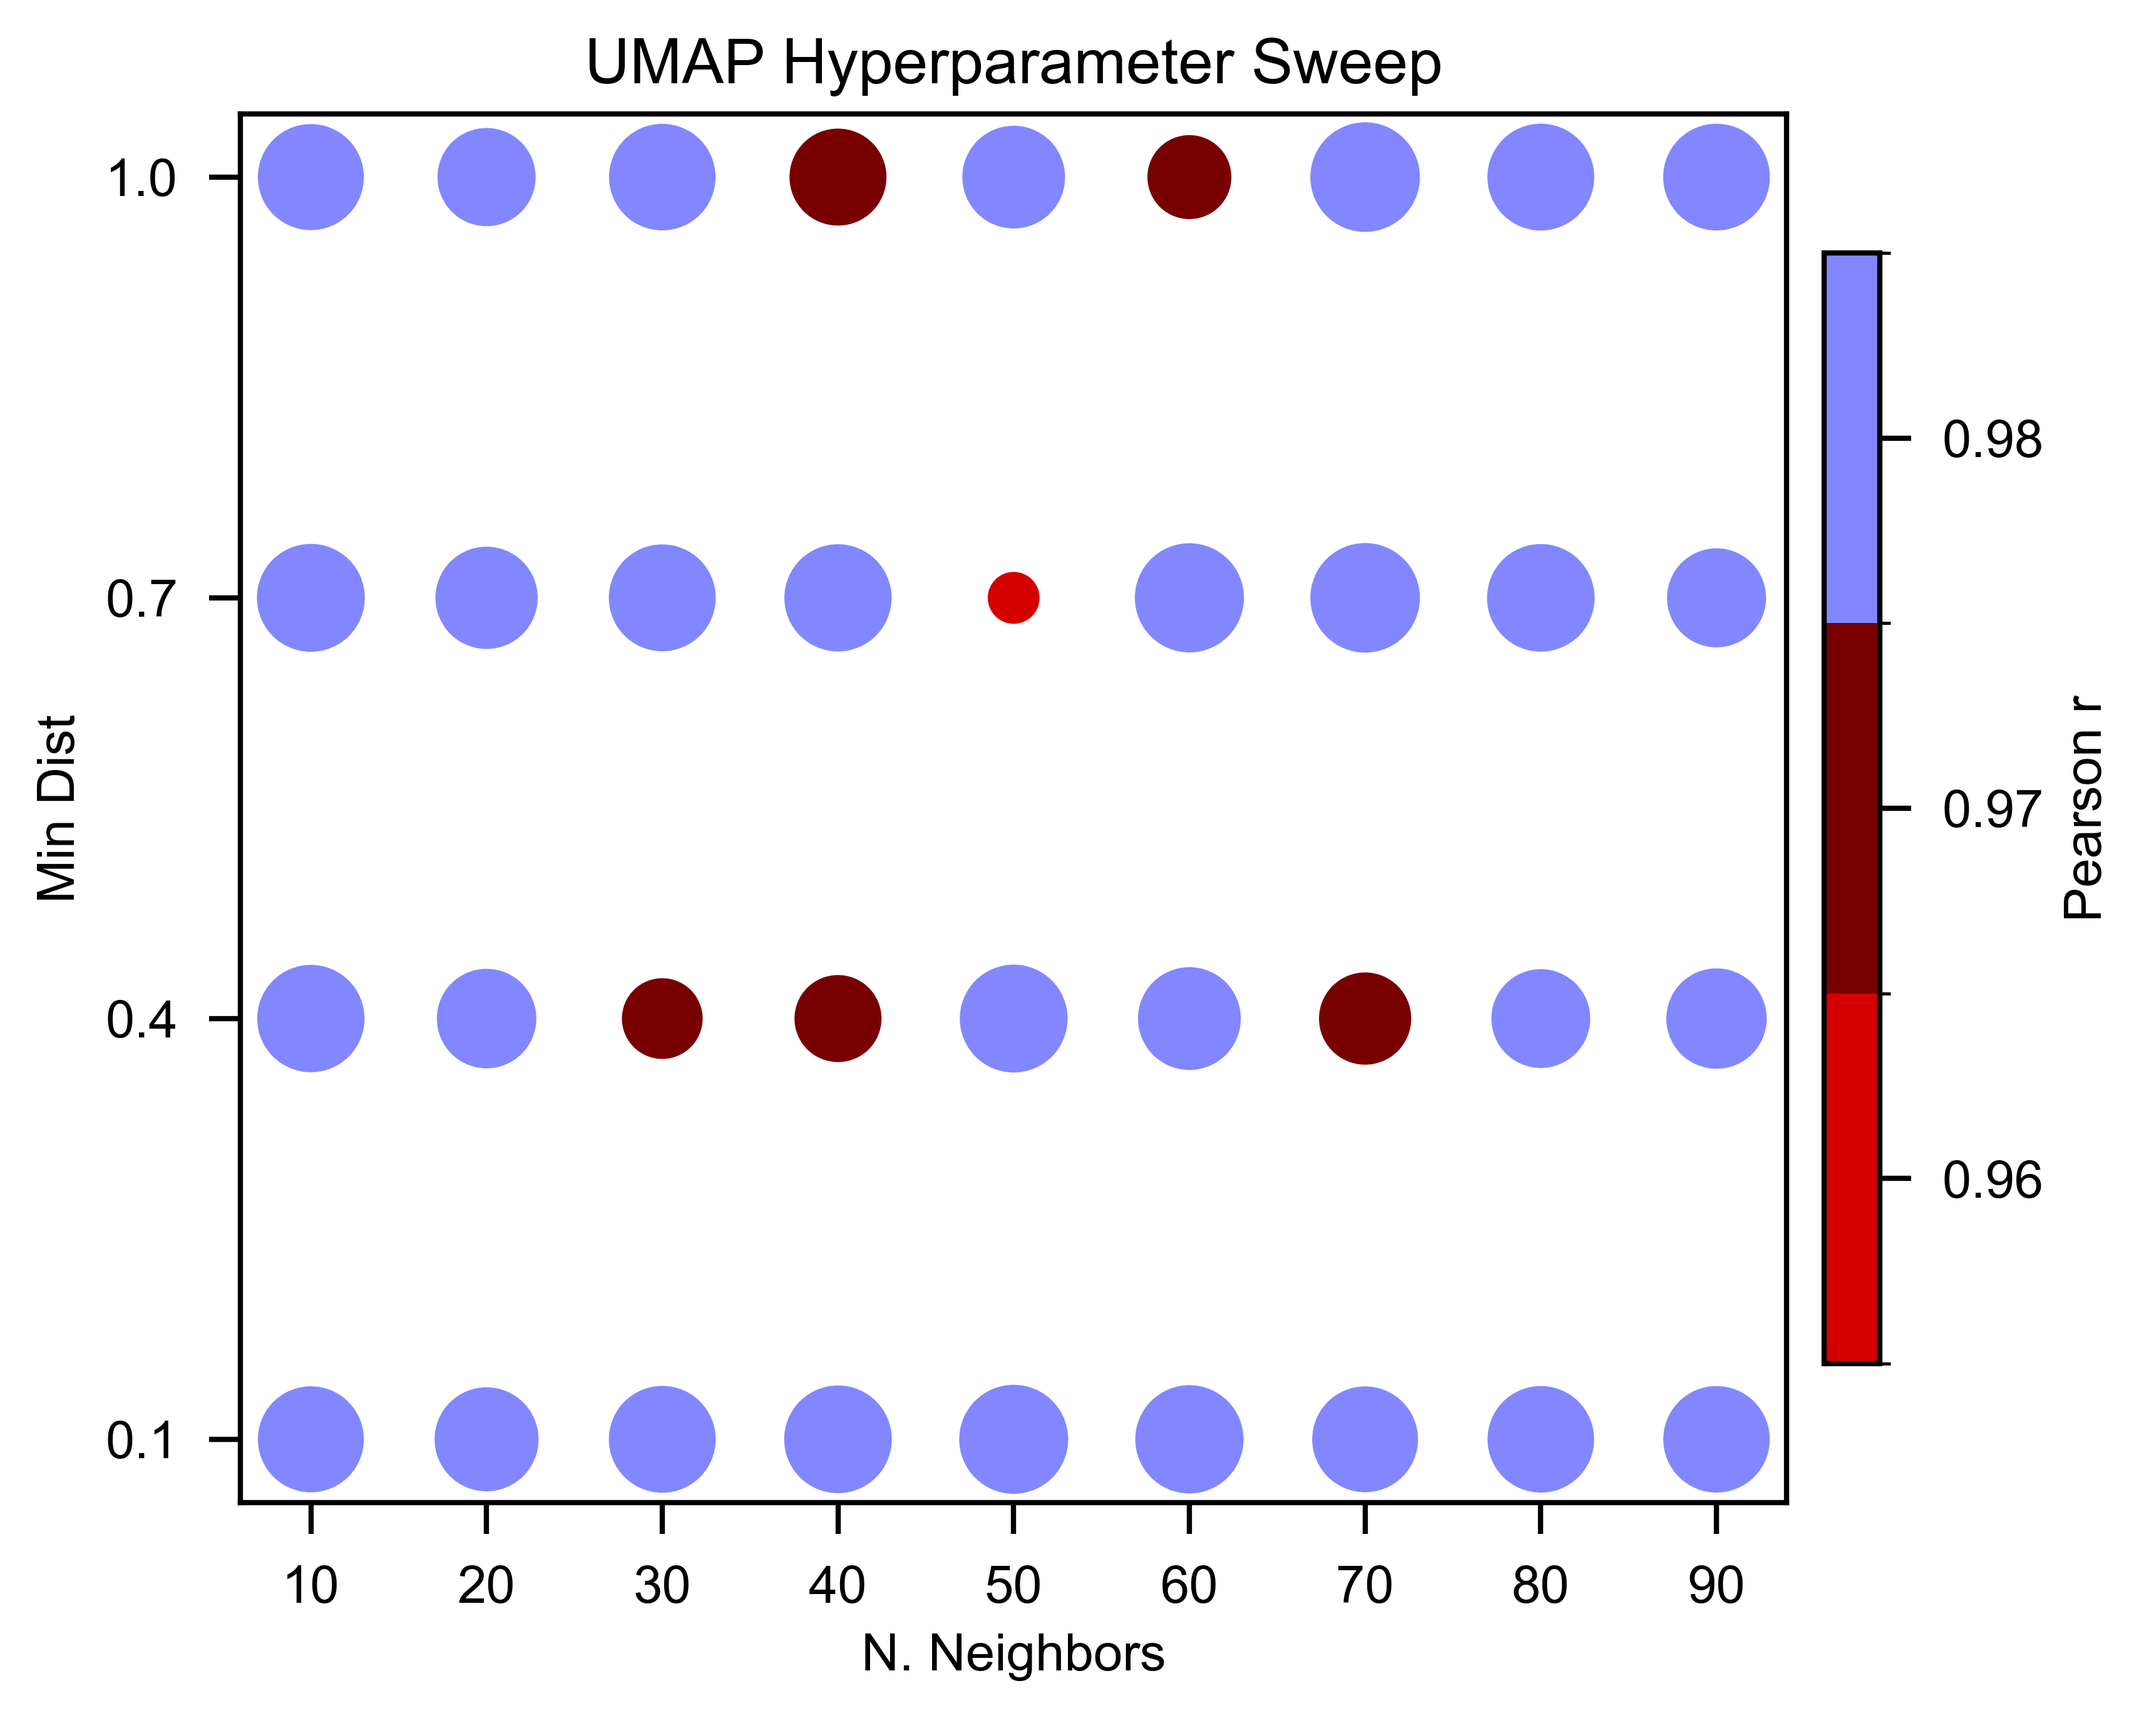
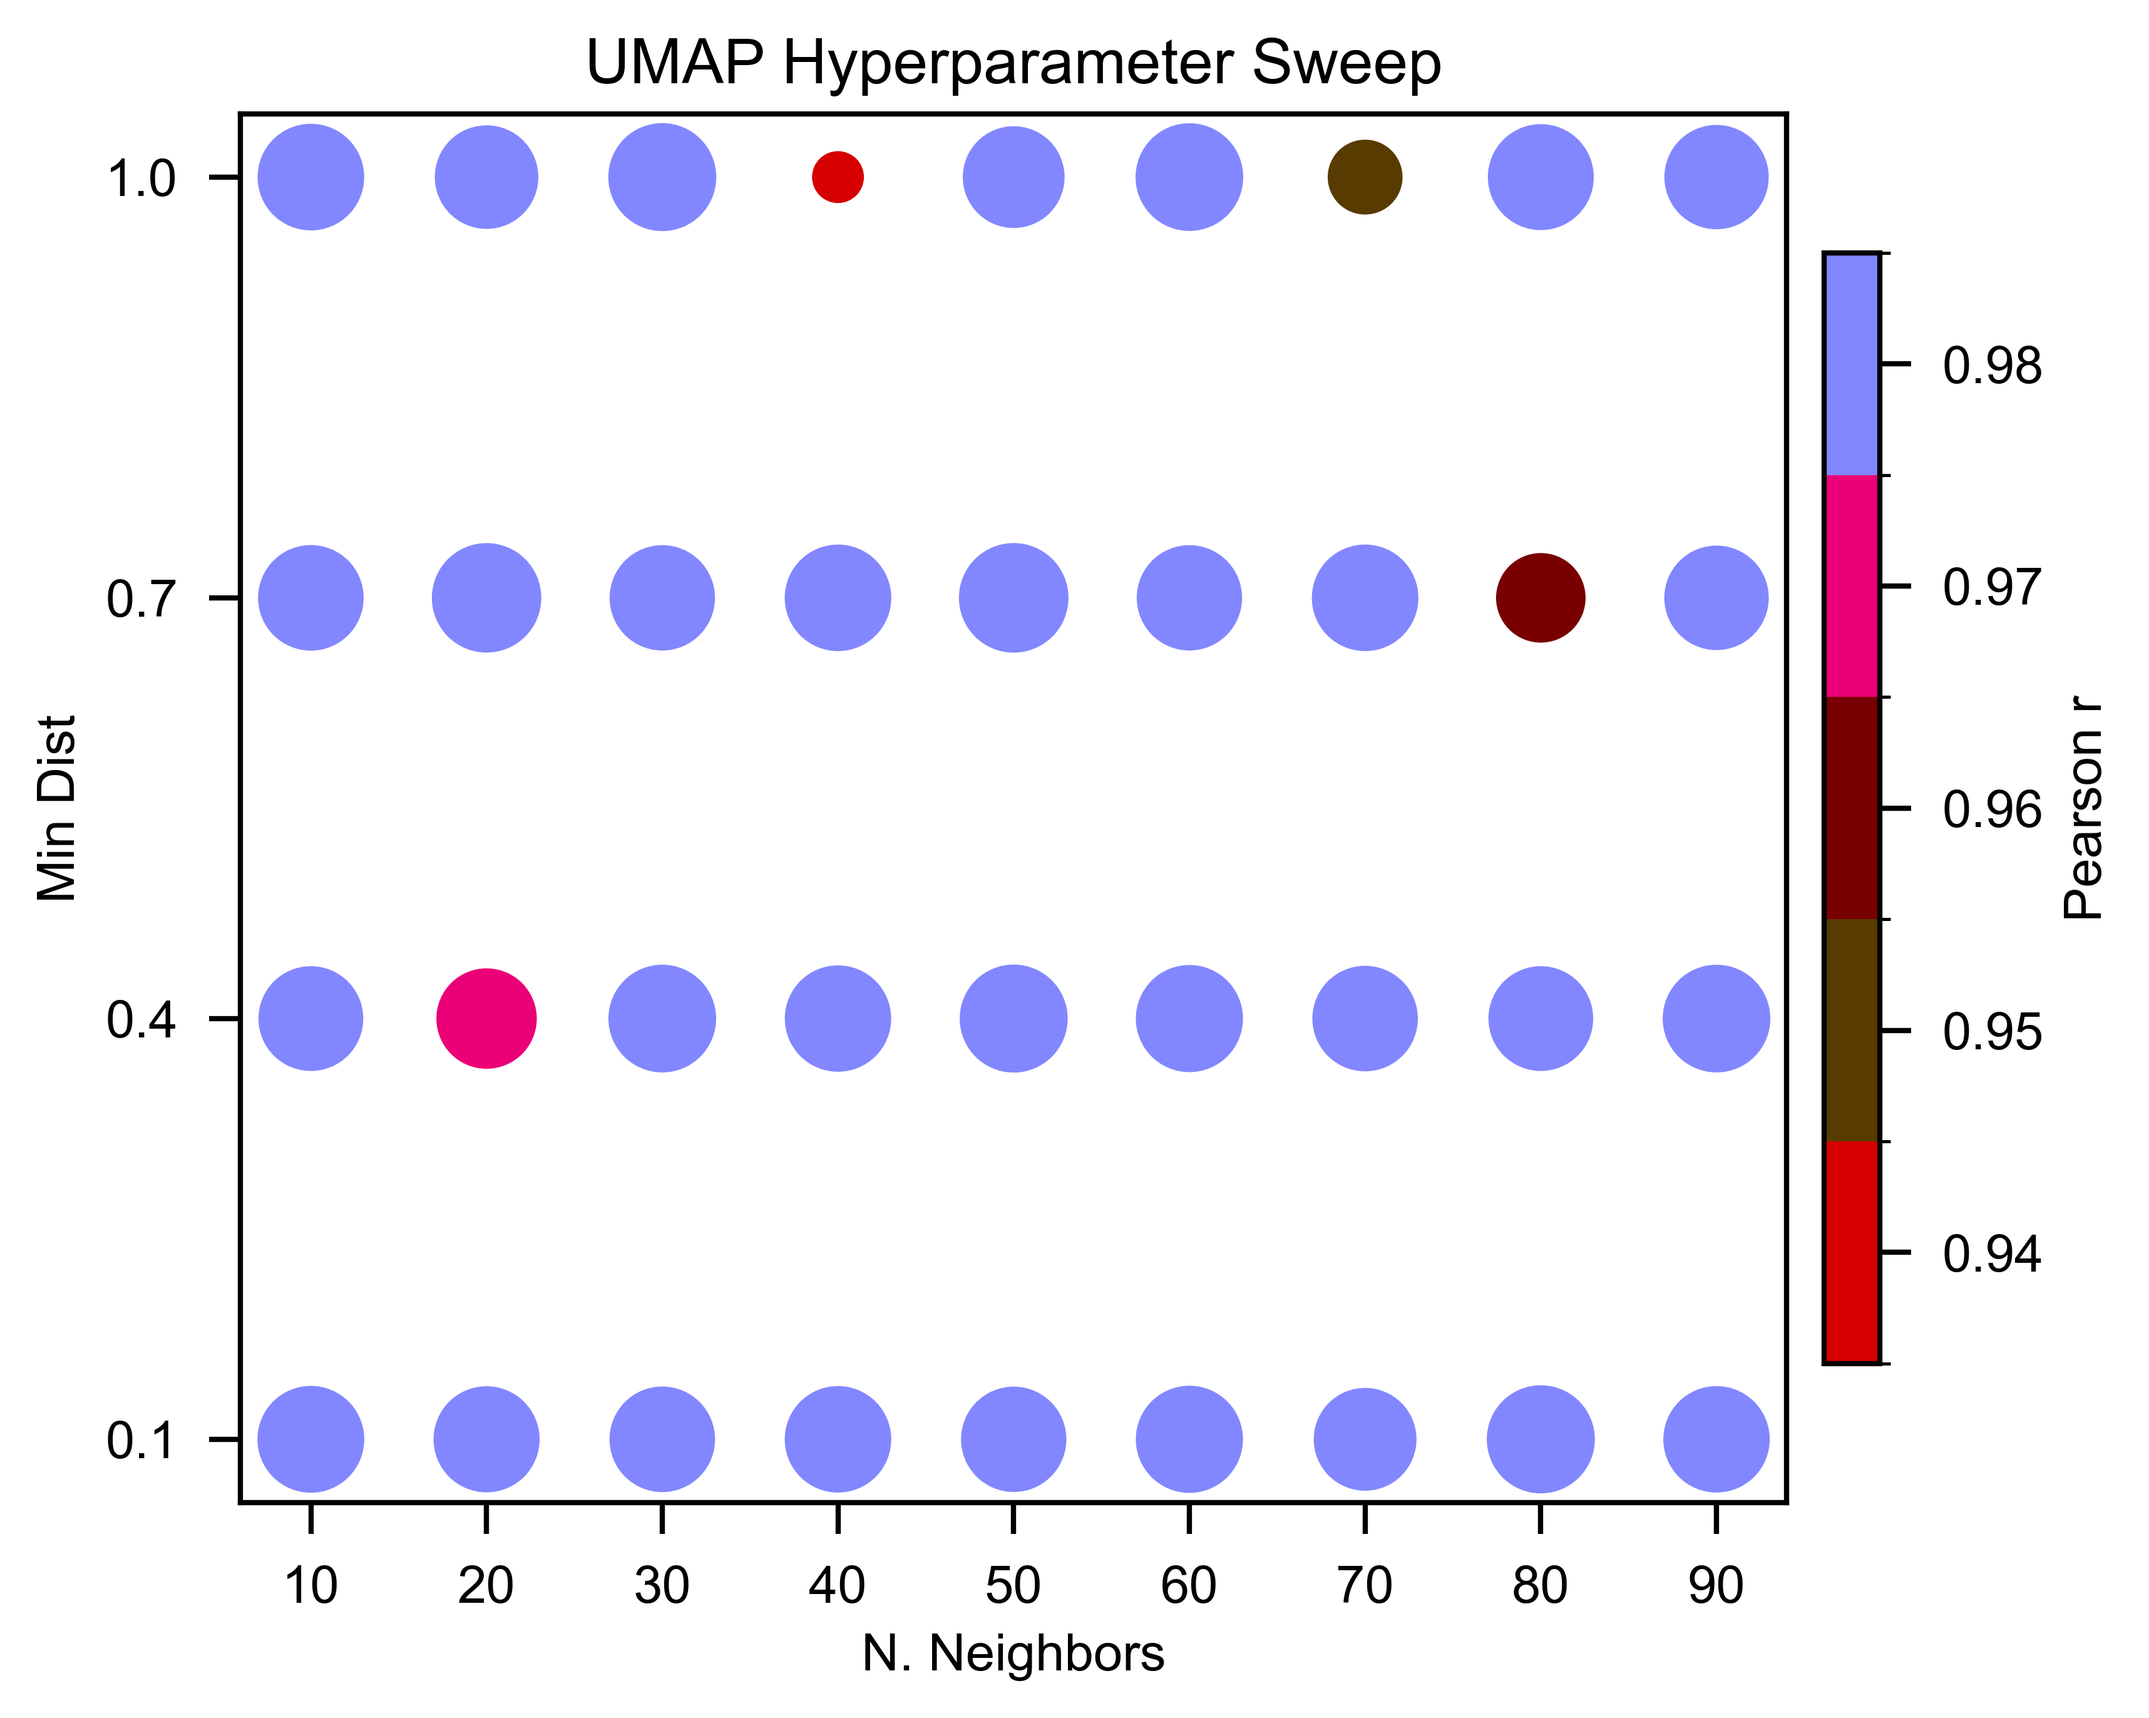
more edits regarding bubblewrap

diff --git a/mdsa_tools/Analysis.py b/mdsa_tools/Analysis.py
@@ -507,9 +507,6 @@ class systems_analysis:
             DX2 = feature_space_coordinates_rownorms[i] + feature_space_coordinates_rownorms[i+1:] - 2.0 * dotX
             DY2 = embedding_space_coordinates_rownorms[i] + embedding_space_coordinates_rownorms[i+1:] - 2.0 * dotY
 
-            # clamp tiny negatives, then take sqrt of Euclidean distances
-            np.maximum(DX2, 0.0, out=DX2)
-            np.maximum(DY2, 0.0, out=DY2)
             DX = np.sqrt(DX2, dtype=np.float64)
             DY = np.sqrt(DY2, dtype=np.float64)
 
